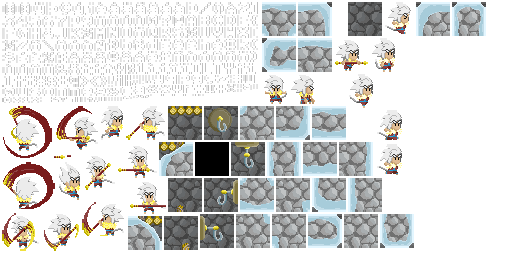
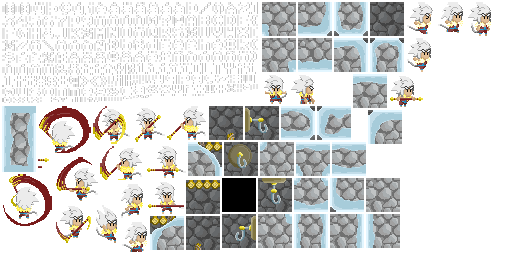
door placement in tiled and collision in game

diff --git a/Assets/Resources/Scripts/Player.cs b/Assets/Resources/Scripts/Player.cs
@@ -32,6 +32,7 @@ public class Player : FAnimatedSprite
     }
     private FSprite extendPoleMiddle;
     private FSprite extendPoleEnd;
+    public World world;
     
     public Player()
         : base("player")
@@ -427,8 +428,8 @@ public class Player : FAnimatedSprite
         float newX = this.x + xVel;
         float topY = this.y + tilemap.tileHeight / 3;
         float bottomY = this.y - tilemap.tileHeight / 3;
-        if (tilemap.isPassable(newX + tilemap.tileWidth / 3, topY) &&
-            tilemap.isPassable(newX + tilemap.tileWidth / 3, bottomY))
+        if (world.isPassable(newX + tilemap.tileWidth / 3, topY) &&
+            world.isPassable(newX + tilemap.tileWidth / 3, bottomY))
             this.x = newX;
         else
         {
@@ -443,8 +444,8 @@ public class Player : FAnimatedSprite
         float newX = this.x + xVel;
         float topY = this.y + tilemap.tileHeight / 3;
         float bottomY = this.y - tilemap.tileHeight / 3;
-        if (tilemap.isPassable(newX - tilemap.tileWidth / 3, topY) &&
-            tilemap.isPassable(newX - tilemap.tileWidth / 3, bottomY))
+        if (world.isPassable(newX - tilemap.tileWidth / 3, topY) &&
+            world.isPassable(newX - tilemap.tileWidth / 3, bottomY))
             this.x = newX;
         else
         {
@@ -458,8 +459,8 @@ public class Player : FAnimatedSprite
         float newY = this.y + yVel;
         float leftX = this.x - tilemap.tileWidth / 4;
         float rightX = this.x + tilemap.tileWidth / 4;
-        if (!tilemap.isPassable(leftX, newY - tilemap.tileWidth) ||
-            !tilemap.isPassable(rightX, newY - tilemap.tileWidth))
+        if (!world.isPassable(leftX, newY - tilemap.tileWidth) ||
+            !world.isPassable(rightX, newY - tilemap.tileWidth))
         {
             if (currentState == State.TAIL_HANG_FALL)
                 currentState = State.IDLE;
@@ -478,8 +479,8 @@ public class Player : FAnimatedSprite
                     break;
             }
         }
-        if (tilemap.isPassable(leftX, newY - tilemap.tileWidth / 2) &&
-            tilemap.isPassable(rightX, newY - tilemap.tileWidth / 2))
+        if (world.isPassable(leftX, newY - tilemap.tileWidth / 2) &&
+            world.isPassable(rightX, newY - tilemap.tileWidth / 2))
             this.y = newY;
         else
         {
@@ -514,16 +515,19 @@ public class Player : FAnimatedSprite
             yVel = 0;
         }
     }
+
     private void CheckOneWayDown()
     {
+
     }
+
     public void TryMoveUp()
     {
         float newY = this.y + yVel;
         float leftX = this.x - tilemap.tileWidth / 4;
         float rightX = this.x + tilemap.tileWidth / 4;
-        if (tilemap.isPassable(leftX, newY + tilemap.tileHeight / 2) &&
-            tilemap.isPassable(rightX, newY + tilemap.tileHeight / 2))
+        if (world.isPassable(leftX, newY + tilemap.tileHeight / 2) &&
+            world.isPassable(rightX, newY + tilemap.tileHeight / 2))
             this.y = newY;
         else
         {

diff --git a/Assets/Resources/Scripts/Objects/Doors.cs b/Assets/Resources/Scripts/Objects/Doors.cs
@@ -2,60 +2,54 @@
 using System.Collections.Generic;
 using System.Linq;
 using System.Text;
+using UnityEngine;
 
 
-	public class Doors : FSprite
-	{
-		private FSprite door;
-		public Doors(Boolean vert)
-		{
-			door = new FSprite("door");
-			isVertical = vert;
-			if (!isVertical)
-			{
-				door.rotation = 90f;
-			}
-		}
+public class Door : FSprite
+{
+    private enum State
+    {
+        CLOSED,
+        OPENING,
+        OPEN
+    }
+    private Boolean isVertical;
+    private State currentState;
 
-		private enum States
-		{
-			CLOSED,
-			OPENING,
-			OPEN
-		}
-		private Boolean _isVertical;
-		private Boolean isVertical
-		{
-			get { return _isVertical; }
-			set { _isVertical = value; }
-		}
-        private States _currentState;
-        private States currentState
+    string name = "";
+    public Door(float x, float y, string name, Boolean vert)
+        : base("door")
+    {
+        isVertical = vert;
+        if (!isVertical)
+            this.rotation = 90f;
+        this.x = x;
+        this.y = y;
+        this.name = name;
+    }
+
+    public bool IsTileOccupied(int x, int y, float tileWidth)
+    {
+        bool result = Mathf.FloorToInt(this.x / tileWidth) == x && Mathf.FloorToInt(this.y / tileWidth) == y;
+        if (!result)
         {
-            get { return _currentState; }
-            set { _currentState = value; }
+            if(!isVertical)
+                return Mathf.FloorToInt(this.x / tileWidth) ==( x +1) && Mathf.FloorToInt(this.y / tileWidth) == y;
+            else
+                return Mathf.FloorToInt(this.x / tileWidth) == x && Mathf.FloorToInt(this.y / tileWidth) == (y+1);
         }
-        private const float DOOR_WIDTH = 32;
-        private const float DOOR_WIDTH_HALF = DOOR_WIDTH / 2;
-
-        public void Update()
+        return result;
+    }
+    public Boolean IsPlayerColliding(Player player)
+    {
+        float xDist = Mathf.Abs(player.x - this.x);
+        float yDist = Mathf.Abs(player.y - this.y);
+        switch (currentState)
         {
+            case State.CLOSED:
+                return (isVertical ? (xDist < player.tilemap.tileWidth && yDist < player.tilemap.tileWidth * 1.5f) : (yDist < player.tilemap.tileWidth * 1.5f && xDist < player.tilemap.tileWidth));
         }
-
-		public Boolean IsPlayerColliding(Player player)
-		{
-            float xDist = player.x - door.x;
-            float yDist = player.y - door.y;
-            switch (currentState)
-            {
-                case States.CLOSED:
-                    if (xDist < (DOOR_WIDTH_HALF + player.tilemap.tileWidth))
-                        return true;
-                    else if (yDist < (DOOR_WIDTH_HALF + player.tilemap.tileHeight))
-                        return true;
-                    break;
-            }
-            return false;
-		}
-	}
+        return false;
+    }
+}
 

diff --git a/Assets/Resources/Scripts/World.cs b/Assets/Resources/Scripts/World.cs
@@ -13,12 +13,14 @@ public class World : FContainer
     FContainer playerLayer;
 
     List<WorldTravelPoint> travelPoints = new List<WorldTravelPoint>();
+    List<Door> doors = new List<Door>();
 
     public World()
     {
         background = new FContainer();
         playerLayer = new FContainer();
         this.p = new Player();
+        this.p.world = this;
         C.getCameraInstance().follow(p);
         Futile.stage.AddChild(C.getCameraInstance());
         map = new FTmxMap();
@@ -32,14 +34,15 @@ public class World : FContainer
         background.RemoveAllChildren();
 
         travelPoints.Clear();
+        doors.Clear();
         this.map = new FTmxMap();
         this.map.LoadTMX("Maps/" + mapName);
-        MapLoader.LoadObjects(this, map.objects);
         tilemap = (FTilemap)this.map.getLayerNamed("tilemap");
 
         p.tilemap = this.tilemap;
         tilemap.clipNode = C.getCameraInstance();
         background.AddChild(tilemap);
+        MapLoader.LoadObjects(this, map.objects);
         C.getCameraInstance().setWorldBounds(new Rect(0, -tilemap.height, tilemap.width, tilemap.height));
 
     }
@@ -49,8 +52,31 @@ public class World : FContainer
 
         travelPoints.Add(travelPoint);
     }
+
+    public void addDoor(Door door)
+    {
+        doors.Add(door);
+        background.AddChild(door);
+    }
     public string lastWarp = "";
     private void Update()
+    {
+        CheckTravelPoints();
+
+    }
+    public bool isPassable(float x, float y)
+    {
+        bool result = tilemap.isPassable(x, y);
+        int tileX = Mathf.FloorToInt(x / tilemap.tileWidth);
+        int tileY = Mathf.FloorToInt(y / tilemap.tileHeight);
+        if (result)
+            foreach (Door door in doors)
+                if (door.IsTileOccupied(tileX, tileY, tilemap.tileWidth))
+                    return false;
+
+        return result;
+    }
+    private void CheckTravelPoints()
     {
         WorldTravelPoint activeTravelPoint = null;
         foreach (WorldTravelPoint travelPoint in travelPoints)
@@ -70,9 +96,7 @@ public class World : FContainer
         {
             LoadAndSpawn(activeTravelPoint.mapToLoad, activeTravelPoint.travelPointTarget);
         }
-
     }
-
     public void LoadAndSpawn(string mapName, string travelPoint)
     {
         LoadMap(mapName);

diff --git a/Assets/Resources/Scripts/MapLoader.cs b/Assets/Resources/Scripts/MapLoader.cs
@@ -22,13 +22,32 @@ public class MapLoader
                     float.TryParse(node.attributes["height"], out height);
                     foreach (XMLNode property in ((XMLNode)node.children[0]).children)
                     {
-                        switch(property.attributes["name"].ToUpper())
+                        switch (property.attributes["name"].ToUpper())
                         {
                             case "MAP": mapTarget = property.attributes["value"]; break;
                             case "TARGET": target = property.attributes["value"]; break;
                         }
                     }
-                    world.addTravelPoint(new WorldTravelPoint(new Rect(x, -y-32, width, height), name, mapTarget, target));
+                    world.addTravelPoint(new WorldTravelPoint(new Rect(x, -y - 32, width, height), name, mapTarget, target));
+                    break;
+                case "DOOR":
+                    name = node.attributes["name"];
+                    float.TryParse(node.attributes["x"], out x);
+                    float.TryParse(node.attributes["y"], out y);
+                    float.TryParse(node.attributes["width"], out width);
+                    float.TryParse(node.attributes["height"], out height);
+                    if (width < height) // vertical
+                    {
+                        x += 16;
+                        y = -y - 32;
+                    }
+                    else
+                    {
+                        x += 32;
+                        y = -y - 16;
+                    }
+
+                    world.addDoor(new Door(x, y, name, width < height));
                     break;
             }
     }
